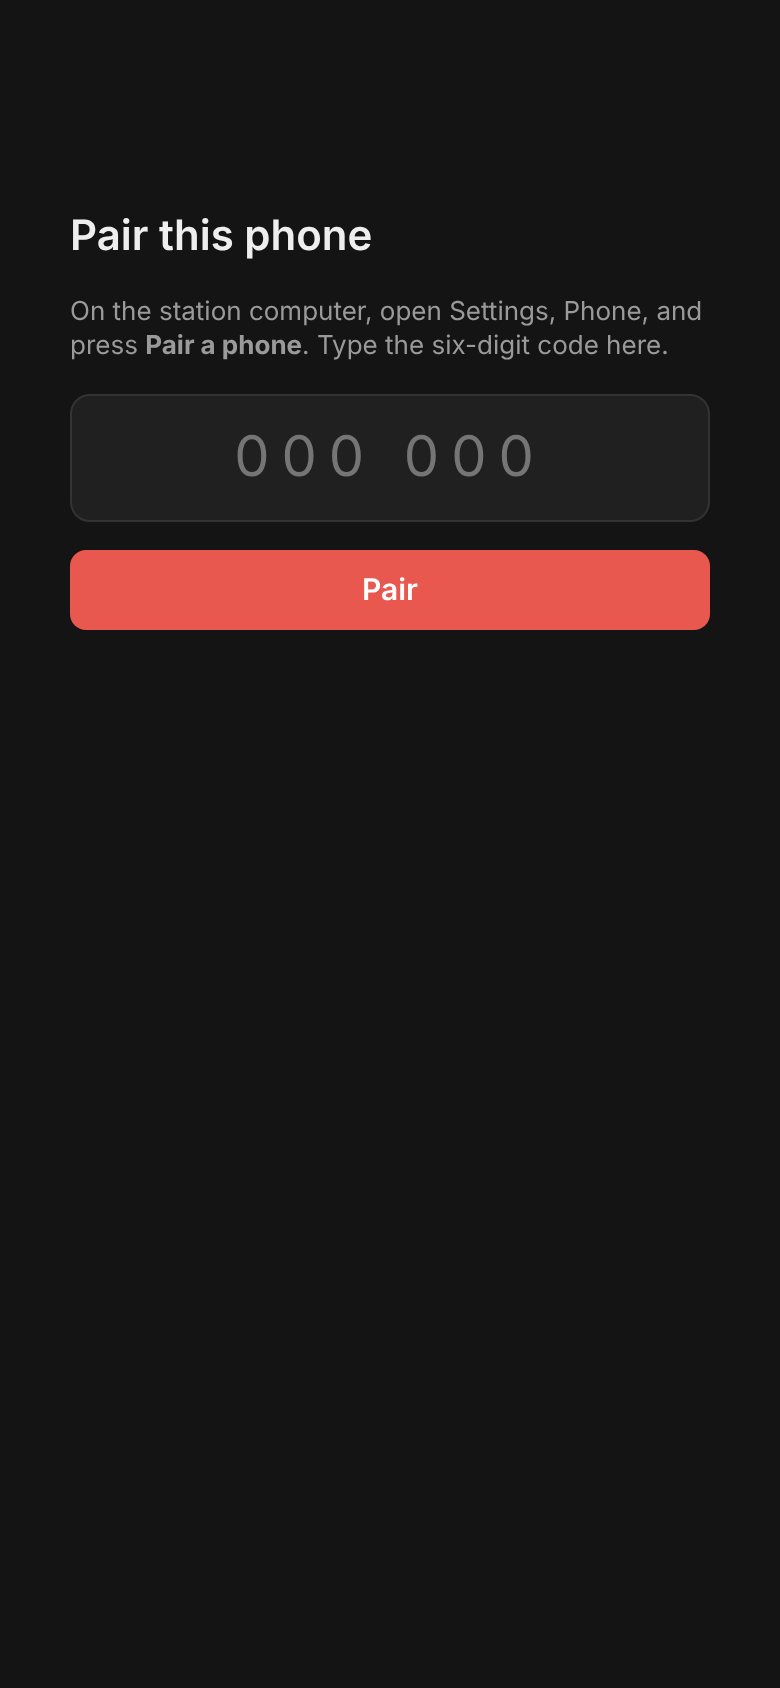
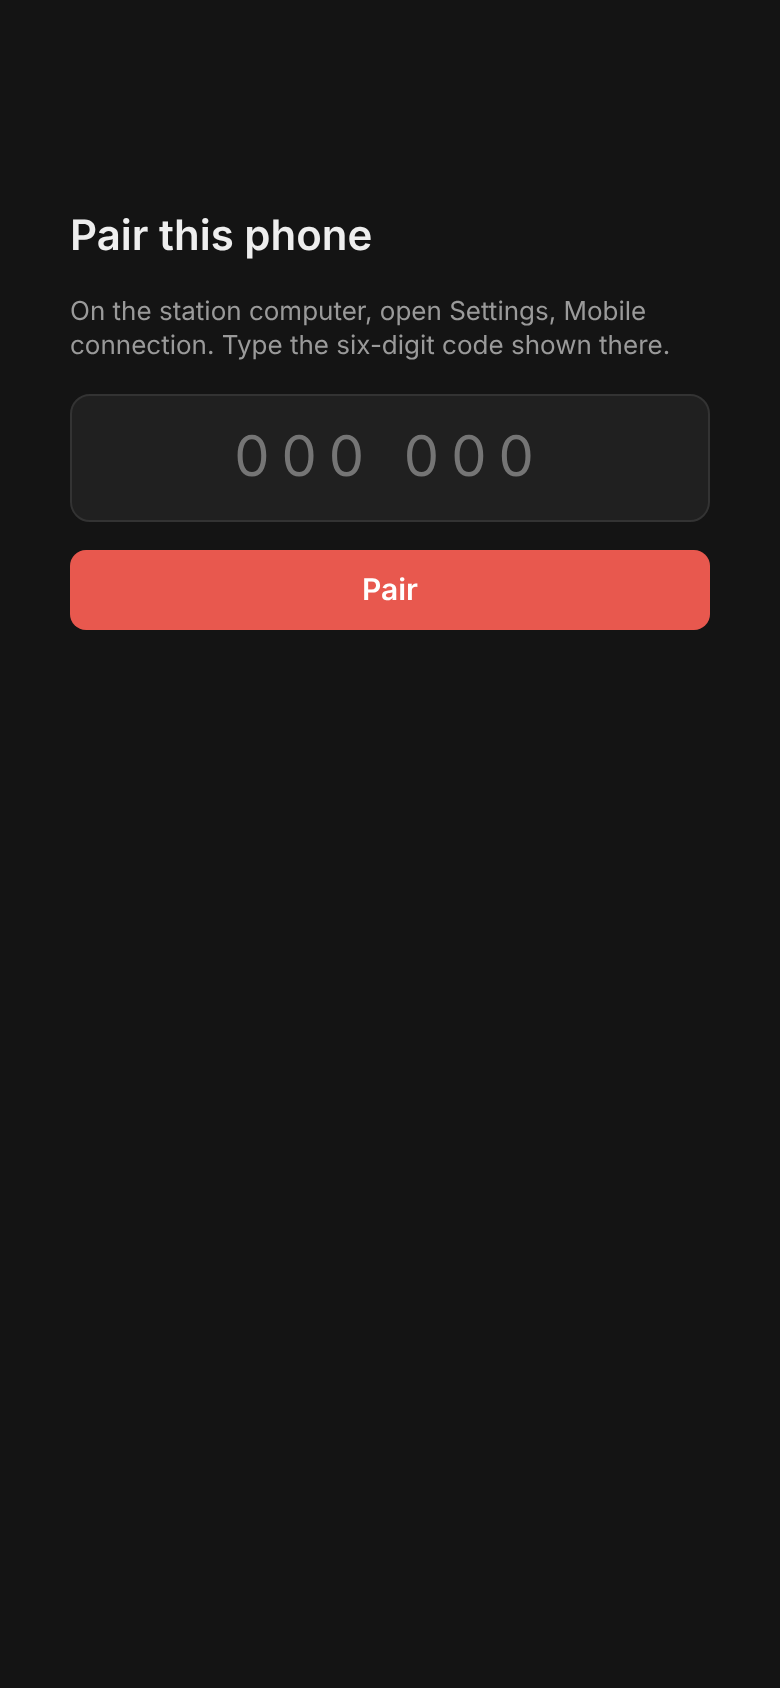
Make pairing a phone quicker: Mobile connection, live address, large code
Tony found the setup awkward on the released build: the address only appeared after saving and reopening Settings, and the pairing code was a small line of text. The section is now called Mobile connection. Ticking it starts the page at once, shows the address, and opens a pairing card with the address and a large one-time code that lives only while Settings is open. The most likely home-network address is listed first, so a WSL or Hyper-V adapter does not hide it.

Claude-Session: https://claude.ai/code/session_01Xyf7gwF8RdtxK5kX49V5Lw

Changed region(s): [[0.0923, 0.1848, 0.8615, 0.2156]]

diff --git a/src/Ft8Client.App/Remote/index.html b/src/Ft8Client.App/Remote/index.html
@@ -66,7 +66,7 @@ main{padding:12px 14px 120px;display:flex;flex-direction:column;gap:12px;flex:1}
 
 <section id="pairView" class="pair hidden">
   <div class="freq">Pair this phone</div>
-  <div class="sub">On the station computer, open Settings, Phone, and press <b>Pair a phone</b>. Type the six-digit code here.</div>
+  <div class="sub">On the station computer, open Settings, Mobile connection. Type the six-digit code shown there.</div>
   <input id="code" inputmode="numeric" autocomplete="one-time-code" maxlength="7" placeholder="000 000">
   <button id="pairBtn" class="red">Pair</button>
   <div id="pairErr" class="err"></div>

diff --git a/src/Ft8Client.App/ViewModels/SettingsViewModel.cs b/src/Ft8Client.App/ViewModels/SettingsViewModel.cs
@@ -67,6 +67,9 @@ public sealed partial class SettingsViewModel : ObservableObject
         RemoteEnabled = s.Remote.Enabled;
         RemotePort = s.Remote.Port.ToString(CultureInfo.InvariantCulture);
         RefreshRemote();
+        host.Remote.Changed += OnRemoteChanged;
+        _remoteLoaded = true;
+        if (host.Remote.Running && host.Remote.Control.Tokens.Count == 0) PairPhone();
         SaveWav = s.Files.SaveWav;
         Retention = s.Files.RetentionDays.ToString(CultureInfo.InvariantCulture);
         Theme = s.Appearance.Theme;
@@ -371,9 +374,29 @@ public sealed partial class SettingsViewModel : ObservableObject
     [ObservableProperty]
     public partial string RemoteStatus { get; set; } = string.Empty;
 
-    /// <summary>The pairing code line, or blank.</summary>
+    /// <summary>The pairing code, "314 159", or blank when none is shown.</summary>
     [ObservableProperty]
-    public partial string PairingText { get; set; } = string.Empty;
+    public partial string PairingCode { get; set; } = string.Empty;
+
+    /// <summary>The address to open on the phone, shown large beside the code.</summary>
+    [ObservableProperty]
+    public partial string PairingUrl { get; set; } = string.Empty;
+
+    /// <summary>The other addresses of this computer, in case the first is a virtual adapter; blank when there are none.</summary>
+    [ObservableProperty]
+    public partial string PairingOtherUrls { get; set; } = string.Empty;
+
+    /// <summary>"Works once, until 15:02."</summary>
+    [ObservableProperty]
+    public partial string PairingExpiry { get; set; } = string.Empty;
+
+    /// <summary>True while a pairing code is shown.</summary>
+    [ObservableProperty]
+    public partial bool HasPairingCode { get; set; }
+
+    /// <summary>A line after forgetting the paired phones, or blank.</summary>
+    [ObservableProperty]
+    public partial string PairingNote { get; set; } = string.Empty;
 
     /// <summary>True while the page is served (pairing works).</summary>
     [ObservableProperty]
@@ -387,12 +410,45 @@ public sealed partial class SettingsViewModel : ObservableObject
     [ObservableProperty]
     public partial bool HasPairedPhones { get; set; }
 
-    /// <summary>Opens a pairing code for a new phone.</summary>
+    private bool _remoteLoaded;
+    private bool _pairWhenRunning;
+
+    // Turning the mobile connection on or off takes effect at once, so the address and a pairing code appear without
+    // saving and reopening Settings.
+    partial void OnRemoteEnabledChanged(bool value)
+    {
+        if (!_remoteLoaded) return;
+        _pairWhenRunning = value;
+        if (!value) ClosePairing();
+        var port = int.TryParse(RemotePort, NumberStyles.Integer, CultureInfo.InvariantCulture, out var p) ? Math.Clamp(p, 1024, 65535) : 8073;
+        _host.Settings.Update(s =>
+        {
+            s.Remote.Enabled = value;
+            s.Remote.Port = port;
+        });
+        RefreshRemote();
+    }
+
+    private void OnRemoteChanged() => MainViewModel.Dispatch(() =>
+    {
+        RefreshRemote();
+        if (_pairWhenRunning && _host.Remote.Running)
+        {
+            _pairWhenRunning = false;
+            PairPhone();
+        }
+    });
+
+    /// <summary>Shows a new pairing code for a phone.</summary>
     [RelayCommand]
     private void PairPhone()
     {
         var code = _host.Remote.Control.Pairing.Open(_host.Clock.UtcNow);
-        PairingText = $"Pairing code: {code[..3]} {code[3..]}. Type it on the phone within 10 minutes. It works once.";
+        PairingCode = $"{code[..3]} {code[3..]}";
+        PairingExpiry = $"Works once, until {_host.Remote.Control.Pairing.ExpiresUtc.ToLocalTime().ToString("HH:mm", CultureInfo.CurrentCulture)}.";
+        PairingNote = string.Empty;
+        HasPairingCode = true;
+        RefreshRemote();
     }
 
     /// <summary>Forgets every paired phone: each must be paired again.</summary>
@@ -400,8 +456,25 @@ public sealed partial class SettingsViewModel : ObservableObject
     private void ForgetPhones()
     {
         _host.Remote.Control.ForgetPhones();
-        PairingText = "Paired phones forgotten. Each phone must be paired again.";
+        PairingNote = "Paired phones forgotten. Each phone must be paired again.";
         RefreshRemote();
+    }
+
+    /// <summary>
+    /// Called when the window closes: a pairing code only works while it is on screen, and this view model stops
+    /// following the mobile connection.
+    /// </summary>
+    public void Detach()
+    {
+        _host.Remote.Changed -= OnRemoteChanged;
+        ClosePairing();
+    }
+
+    private void ClosePairing()
+    {
+        _host.Remote.Control.Pairing.Close();
+        HasPairingCode = false;
+        PairingCode = string.Empty;
     }
 
     private void RefreshRemote()
@@ -409,10 +482,13 @@ public sealed partial class SettingsViewModel : ObservableObject
         var r = _host.Remote;
         RemoteRunning = r.Running;
         var urls = r.Urls();
+        PairingUrl = urls.Count > 0 ? urls[0] : $"this computer's address, port {_host.Settings.Current.Remote.Port}";
+        PairingOtherUrls = urls.Count > 1 ? "If that does not open, try " + string.Join(" or ", urls.Skip(1)) : string.Empty;
         RemoteStatus = r.Problem is { } p ? p
-            : !r.Running ? (RemoteEnabled ? "Save to start the remote page." : "Off.")
+            : !r.Running ? (RemoteEnabled ? "Starting…" : "Off.")
             : urls.Count == 0 ? "On, but this computer has no address on a home network."
-            : $"On your phone, open {string.Join(" or ", urls)}" + (r.Connected > 0 ? $" · {r.Connected} connected now" : string.Empty);
+            : $"On. Phones open {string.Join(" or ", urls)}" + (r.Connected > 0 ? $" · {r.Connected} connected now" : string.Empty);
+        if (!r.Running && HasPairingCode) ClosePairing();
         var n = r.Control.Tokens.Count;
         HasPairedPhones = n > 0;
         ForgetPhonesText = n == 1 ? "Forget the paired phone" : $"Forget {n} paired phones";

diff --git a/src/Ft8Client.App/Remote/RemoteControlService.cs b/src/Ft8Client.App/Remote/RemoteControlService.cs
@@ -78,7 +78,10 @@ public sealed class RemoteControlService : IAsyncDisposable
         _ = ApplyAsync(_settings.Current.Remote);
     }
 
-    /// <summary>The addresses to open on a phone: one per local IPv4 address of this computer.</summary>
+    /// <summary>
+    /// The addresses to open on a phone: one per local IPv4 address of this computer, the most likely first (an adapter
+    /// with a default gateway, which is the home network, before virtual adapters such as WSL or Hyper-V).
+    /// </summary>
     public IReadOnlyList<string> Urls()
     {
         var port = _settings.Current.Remote.Port;
@@ -86,10 +89,14 @@ public sealed class RemoteControlService : IAsyncDisposable
         {
             return [.. NetworkInterface.GetAllNetworkInterfaces()
                 .Where(n => n.OperationalStatus == OperationalStatus.Up && n.NetworkInterfaceType != NetworkInterfaceType.Loopback)
-                .SelectMany(n => n.GetIPProperties().UnicastAddresses)
-                .Select(a => a.Address)
-                .Where(a => a.AddressFamily == AddressFamily.InterNetwork && LocalNetwork.Contains(a) && !System.Net.IPAddress.IsLoopback(a))
-                .Select(a => $"http://{a}:{port}/")
+                .Select(n => (Props: n.GetIPProperties(), n.NetworkInterfaceType))
+                .SelectMany(n => n.Props.UnicastAddresses.Select(a => (a.Address,
+                    Gateway: n.Props.GatewayAddresses.Any(g => g.Address.AddressFamily == AddressFamily.InterNetwork && !g.Address.Equals(System.Net.IPAddress.Any)),
+                    Physical: n.NetworkInterfaceType is NetworkInterfaceType.Ethernet or NetworkInterfaceType.Wireless80211)))
+                .Where(a => a.Address.AddressFamily == AddressFamily.InterNetwork && LocalNetwork.Contains(a.Address) && !System.Net.IPAddress.IsLoopback(a.Address))
+                .OrderByDescending(a => a.Gateway)
+                .ThenByDescending(a => a.Physical)
+                .Select(a => $"http://{a.Address}:{port}/")
                 .Distinct()];
         }
         catch (NetworkInformationException)

diff --git a/src/Ft8Client.App/Remote/RemoteServer.cs b/src/Ft8Client.App/Remote/RemoteServer.cs
@@ -143,7 +143,7 @@ public sealed class RemoteServer : IAsyncDisposable
         if (token is null)
         {
             Log.Information("Remote pairing refused from {Address}", ctx.Connection.RemoteIpAddress);
-            return Results.Json(new { error = "That code is wrong or has expired. Open Settings, Phone, and press Pair a phone for a new one." },
+            return Results.Json(new { error = "That code is wrong or has expired. Open Settings, Mobile connection, on the station computer for a new one." },
                 statusCode: StatusCodes.Status403Forbidden);
         }
         Log.Information("Phone paired from {Address}", ctx.Connection.RemoteIpAddress);

diff --git a/src/Ft8Client.App/Views/SettingsWindow.axaml.cs b/src/Ft8Client.App/Views/SettingsWindow.axaml.cs
@@ -22,5 +22,6 @@ public partial class SettingsWindow : Window
         {
             if (DataContext is SettingsViewModel vm) vm.Close += Close;
         };
+        Closed += (_, _) => (DataContext as SettingsViewModel)?.Detach();
     }
 }

diff --git a/manual/phone.md b/manual/phone.md
@@ -6,23 +6,21 @@ you turn it on.
 
 ![The phone page in a contact](images/phone-contact.png){ width="320" }
 
-## Turning it on
+## Turning it on and pairing a phone
 
-1. On the station computer, open **Settings › Phone**, tick **Let a paired phone on this network operate the
-   station**, and press **Save**. The default port is `8073`.
-2. The first time, Windows asks whether Costas may use the network. Allow it on **private networks**.
-3. Open **Settings › Phone** again. It shows the address to open on the phone, for example
-   `http://192.168.1.20:8073/`.
-
-## Pairing a phone
-
-1. In **Settings › Phone**, press **Pair a phone**. A six-digit code appears. It works once, for 10 minutes, and five
-   wrong tries cancel it.
-2. On the phone, open the address and type the code.
+1. On the station computer, open **Settings › Mobile connection** and tick **Let a paired phone on this network
+   operate the station**. It starts at once; there is no need to save first.
+2. If Windows asks whether Costas may use the network, choose **Allow** for private networks. Phones cannot connect
+   until you do.
+3. A **Pair a phone** card appears with the address to open on the phone, for example `http://192.168.1.20:8073/`,
+   and a large six-digit code.
+4. On the phone, open the address and type the code.
 
 ![Pairing a phone](images/phone-pair.png){ width="320" }
 
-The phone stays paired until you press **Forget paired phones** in Settings. Pairing again after that is quick.
+The code works once, only while the Settings window is open, for up to 10 minutes, and five wrong tries cancel it.
+Press **New code** for another. The phone stays paired until you press **Forget paired phones**; to pair another
+phone, open **Settings › Mobile connection** again and press **Pair a phone**.
 
 ## What the phone can do
 

diff --git a/docs/02-ui-spec.md b/docs/02-ui-spec.md
@@ -232,7 +232,7 @@ Mockup: `setup` (step 2). A left rail lists the six steps; the right pane holds 
 
 ## Settings
 
-Sections: Station profiles · Radio · Audio · Transmit (power, watchdog minutes, retry limit, RR73 or RRR, CQ modifier, my grid in my answer to a CQ on or off, `73` or `RR73` as my last message when answering, optional free text up to 13 characters sent after it, a preview of every message as it will be sent, auto-log on or off) · Ranking (also how long CQ callers stay in Next in line after they were last heard: only while heard every slot, or 1 to 15 minutes, default 2) · QRZ · PSK Reporter (receive feed on or off, upload my spots on or off) · Interop (UDP address and port) · Files (WAV saving: none, decoded, all; retention days) · Phone (remote page on or off, port, pair a phone, forget paired phones) · Appearance (theme, units).
+Sections: Station profiles · Radio · Audio · Transmit (power, watchdog minutes, retry limit, RR73 or RRR, CQ modifier, my grid in my answer to a CQ on or off, `73` or `RR73` as my last message when answering, optional free text up to 13 characters sent after it, a preview of every message as it will be sent, auto-log on or off) · Ranking (also how long CQ callers stay in Next in line after they were last heard: only while heard every slot, or 1 to 15 minutes, default 2) · QRZ · PSK Reporter (receive feed on or off, upload my spots on or off) · Interop (UDP address and port) · Files (WAV saving: none, decoded, all; retention days) · Mobile connection (on or off, applied at once; a Pair a phone card with the address and a large one-time code, shown when turned on and while Settings is open; forget paired phones; port) · Appearance (theme, units).
 
 ## Phone (remote page)
 

diff --git a/manual/settings.md b/manual/settings.md
@@ -95,10 +95,11 @@ The key and password are kept in Windows Credential Manager.
   and JTAlert on the same computer.
 - **Save received audio**: none, only slots with decodes, or all, as WAV files, kept for 30 days by default.
 
-## Phone
+## Mobile connection
 
-- **Let a paired phone on this network operate the station**: off by default. **Port**: `8073`.
-- **Pair a phone** shows a one-time code to type on the phone; **Forget paired phones** unpairs them all.
+- **Let a paired phone on this network operate the station**: off by default. Takes effect at once and shows a
+  **Pair a phone** card with the address and a large one-time code.
+- **Forget paired phones** unpairs them all. **Port**: `8073`, applied when you save.
 
 See [Operating from a phone](phone.md).
 
